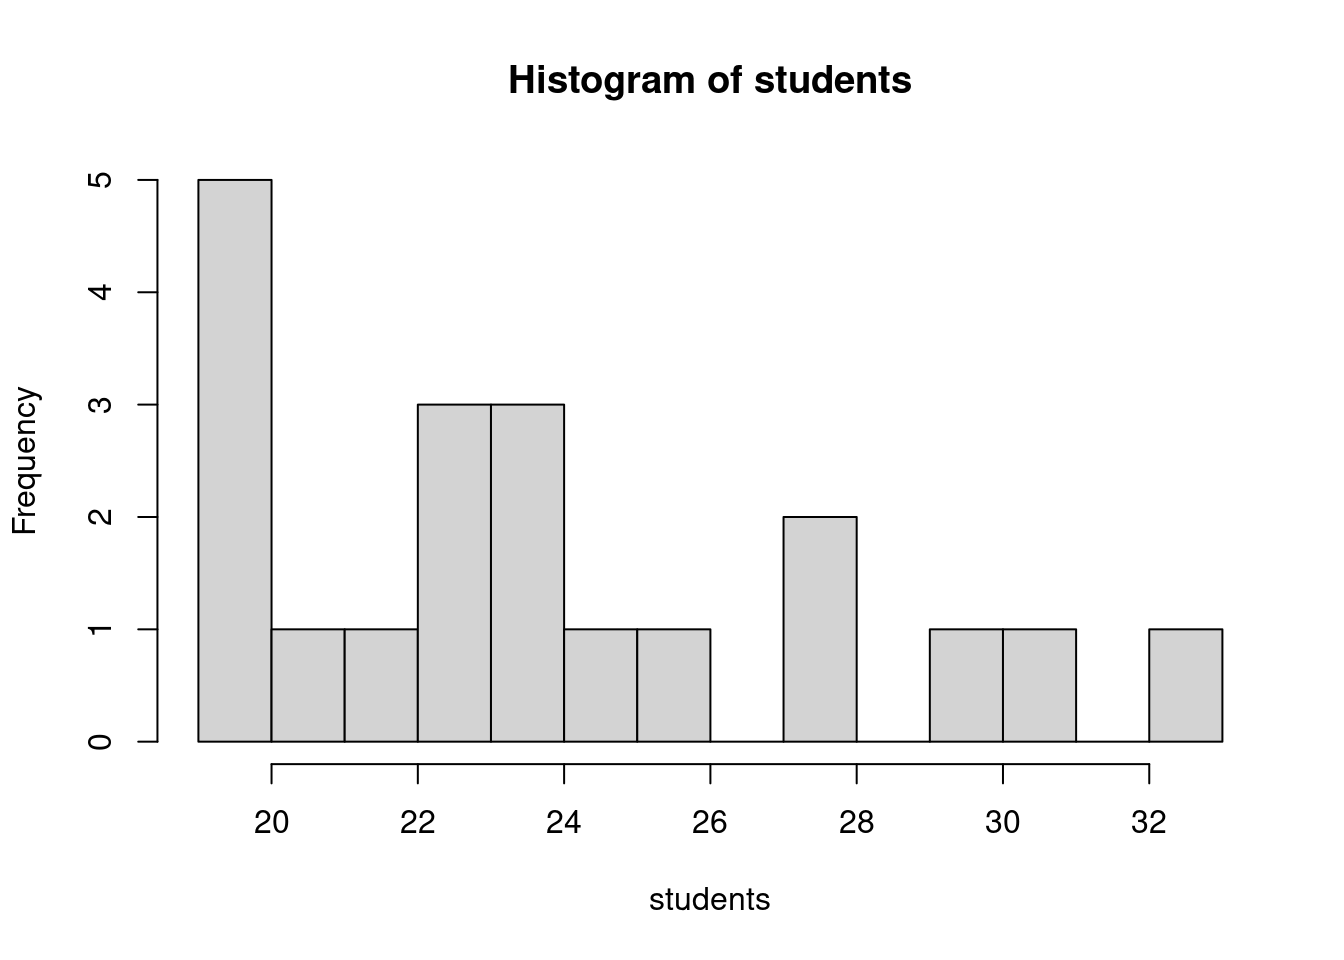
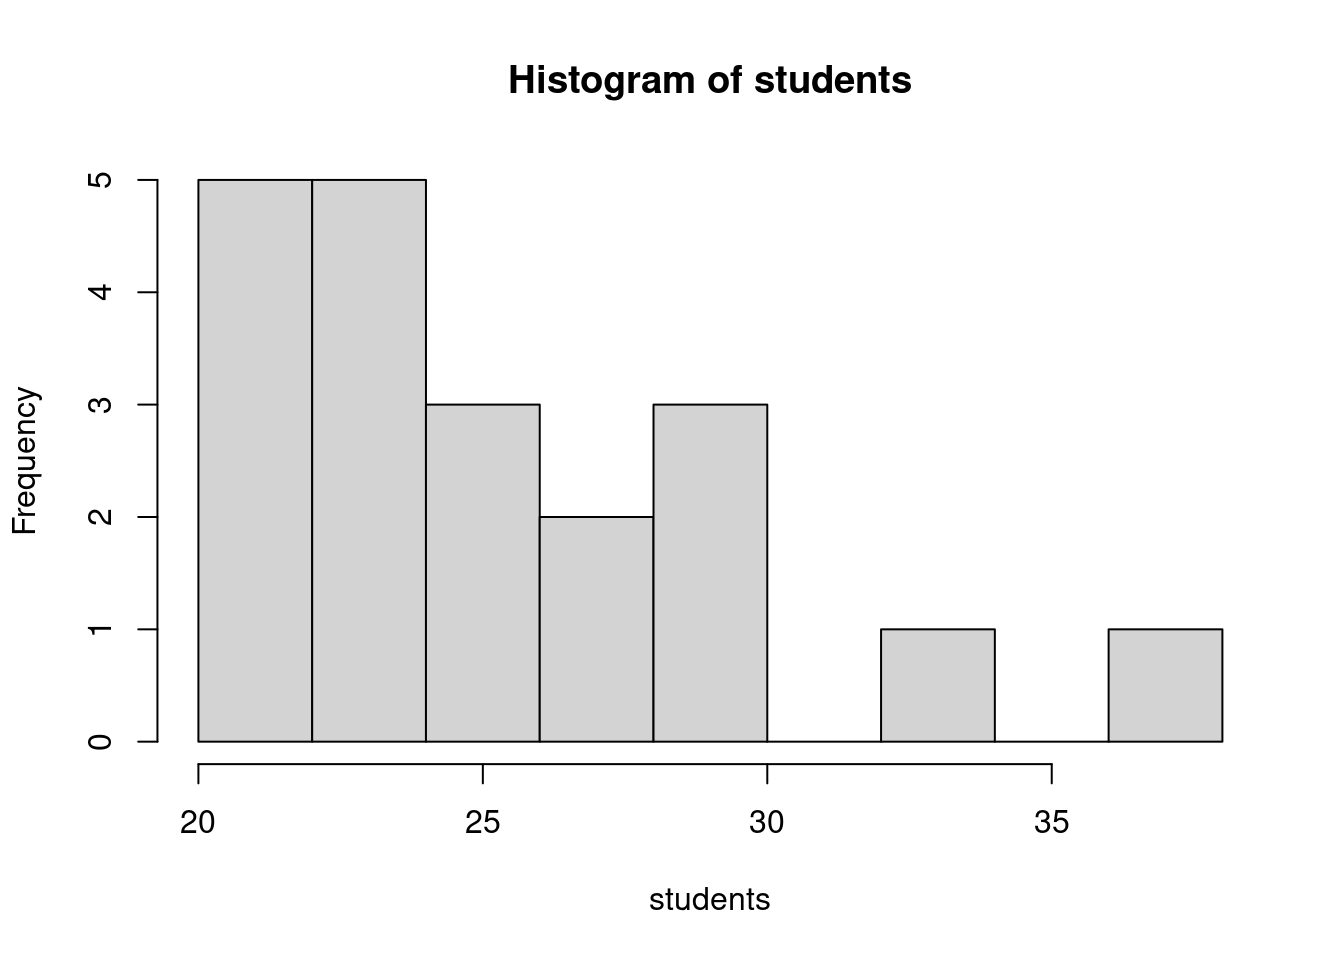
reordered exampls

diff --git a/_book/what-is-statistics.html b/_book/what-is-statistics.html
@@ -189,14 +189,14 @@ code span.wa { color: #60a0b0; font-weight: bold; font-style: italic; } /* Warni
 <li class="chapter" data-level="3.6.5" data-path="what-is-statistics.html"><a href="what-is-statistics.html#birthday-tickets"><i class="fa fa-check"></i><b>3.6.5</b> Birthday Tickets</a></li>
 <li class="chapter" data-level="3.6.6" data-path="what-is-statistics.html"><a href="what-is-statistics.html#accidents"><i class="fa fa-check"></i><b>3.6.6</b> Accidents</a></li>
 <li class="chapter" data-level="3.6.7" data-path="what-is-statistics.html"><a href="what-is-statistics.html#detecting-fraud"><i class="fa fa-check"></i><b>3.6.7</b> Detecting Fraud</a></li>
-<li class="chapter" data-level="3.6.8" data-path="what-is-statistics.html"><a href="what-is-statistics.html#monty-hall"><i class="fa fa-check"></i><b>3.6.8</b> Monty Hall</a></li>
-<li class="chapter" data-level="3.6.9" data-path="what-is-statistics.html"><a href="what-is-statistics.html#monty-hilbert-hall"><i class="fa fa-check"></i><b>3.6.9</b> Monty-Hilbert Hall</a></li>
-<li class="chapter" data-level="3.6.10" data-path="what-is-statistics.html"><a href="what-is-statistics.html#radioactive-decay"><i class="fa fa-check"></i><b>3.6.10</b> Radioactive Decay</a></li>
-<li class="chapter" data-level="3.6.11" data-path="what-is-statistics.html"><a href="what-is-statistics.html#budgets"><i class="fa fa-check"></i><b>3.6.11</b> Budgets</a></li>
-<li class="chapter" data-level="3.6.12" data-path="what-is-statistics.html"><a href="what-is-statistics.html#cherry-blossoms"><i class="fa fa-check"></i><b>3.6.12</b> Cherry Blossoms</a></li>
-<li class="chapter" data-level="3.6.13" data-path="what-is-statistics.html"><a href="what-is-statistics.html#detecting-fraud-in-thc-labs"><i class="fa fa-check"></i><b>3.6.13</b> Detecting Fraud in THC Labs</a></li>
-<li class="chapter" data-level="3.6.14" data-path="what-is-statistics.html"><a href="what-is-statistics.html#how-many-locomotives"><i class="fa fa-check"></i><b>3.6.14</b> How Many Locomotives</a></li>
-<li class="chapter" data-level="3.6.15" data-path="what-is-statistics.html"><a href="what-is-statistics.html#combining-rare-events-with-common-events"><i class="fa fa-check"></i><b>3.6.15</b> Combining Rare Events with Common Events</a></li>
+<li class="chapter" data-level="3.6.8" data-path="what-is-statistics.html"><a href="what-is-statistics.html#combining-rare-events-with-common-events"><i class="fa fa-check"></i><b>3.6.8</b> Combining Rare Events with Common Events</a></li>
+<li class="chapter" data-level="3.6.9" data-path="what-is-statistics.html"><a href="what-is-statistics.html#monty-hall"><i class="fa fa-check"></i><b>3.6.9</b> Monty Hall</a></li>
+<li class="chapter" data-level="3.6.10" data-path="what-is-statistics.html"><a href="what-is-statistics.html#monty-hilbert-hall"><i class="fa fa-check"></i><b>3.6.10</b> Monty-Hilbert Hall</a></li>
+<li class="chapter" data-level="3.6.11" data-path="what-is-statistics.html"><a href="what-is-statistics.html#radioactive-decay"><i class="fa fa-check"></i><b>3.6.11</b> Radioactive Decay</a></li>
+<li class="chapter" data-level="3.6.12" data-path="what-is-statistics.html"><a href="what-is-statistics.html#budgets"><i class="fa fa-check"></i><b>3.6.12</b> Budgets</a></li>
+<li class="chapter" data-level="3.6.13" data-path="what-is-statistics.html"><a href="what-is-statistics.html#cherry-blossoms"><i class="fa fa-check"></i><b>3.6.13</b> Cherry Blossoms</a></li>
+<li class="chapter" data-level="3.6.14" data-path="what-is-statistics.html"><a href="what-is-statistics.html#detecting-fraud-in-thc-labs"><i class="fa fa-check"></i><b>3.6.14</b> Detecting Fraud in THC Labs</a></li>
+<li class="chapter" data-level="3.6.15" data-path="what-is-statistics.html"><a href="what-is-statistics.html#how-many-locomotives"><i class="fa fa-check"></i><b>3.6.15</b> How Many Locomotives</a></li>
 <li class="chapter" data-level="3.6.16" data-path="what-is-statistics.html"><a href="what-is-statistics.html#median-house-prices"><i class="fa fa-check"></i><b>3.6.16</b> Median House Prices</a></li>
 <li class="chapter" data-level="3.6.17" data-path="what-is-statistics.html"><a href="what-is-statistics.html#healthcare-costs"><i class="fa fa-check"></i><b>3.6.17</b> Healthcare Costs</a></li>
 <li class="chapter" data-level="3.6.18" data-path="what-is-statistics.html"><a href="what-is-statistics.html#what-questions-do-you-have"><i class="fa fa-check"></i><b>3.6.18</b> What Questions Do You Have?</a></li>
@@ -286,7 +286,7 @@ While I am collecting this data you can reflect on this funny musing. I grew up 
 <span id="cb3-5"><a href="what-is-statistics.html#cb3-5" aria-hidden="true" tabindex="-1"></a><span class="co"># students &lt;- {} </span></span>
 <span id="cb3-6"><a href="what-is-statistics.html#cb3-6" aria-hidden="true" tabindex="-1"></a></span>
 <span id="cb3-7"><a href="what-is-statistics.html#cb3-7" aria-hidden="true" tabindex="-1"></a>students</span></code></pre></div>
-<pre><code>##  [1] 19 33 26 22 24 30 24 19 28 19 23 23 20 31 23 25 24 28 19 21</code></pre>
+<pre><code>##  [1] 33 22 37 30 24 23 24 29 30 25 27 24 22 21 24 27 25 25 20 21</code></pre>
 <p><em>R Notes</em>: lists in R are enclosed in <em>curly braces</em> and each member of the list is separated by a <em>semi-colon</em> or a space; note I think leaving the space is bad practice and recommend not using that feature. In this case our list is a collection of integers. Lists can more generally be numbers or strings or even lists of lists.</p>
 <p>Comments in commands start with <em>hash symbols</em>.</p>
 <p>Another syntax note: R uses both = and &lt;- for assignment though they have slightly different meanings. They both work as you would expect, however &lt;- has some nice positives in the detailed differences and it is worth getting into the habit of using it.</p>
@@ -296,11 +296,11 @@ While I am collecting this data you can reflect on this funny musing. I grew up 
 <p>To get started we can use <em>summary</em> to get an overview of what our list of student enrollments look like. Review the meaning of each of these.</p>
 <div class="sourceCode" id="cb5"><pre class="sourceCode r"><code class="sourceCode r"><span id="cb5-1"><a href="what-is-statistics.html#cb5-1" aria-hidden="true" tabindex="-1"></a><span class="fu">summary</span>(students)</span></code></pre></div>
 <pre><code>##    Min. 1st Qu.  Median    Mean 3rd Qu.    Max. 
-##   19.00   20.75   23.50   24.05   26.50   33.00</code></pre>
+##   20.00   22.75   24.50   25.65   27.50   37.00</code></pre>
 <p>Mean and Median are <em>measures of center</em>, while the quartiles are <em>measures of spread</em>. One measure of spread missing is the variance or its square root standard deviation:</p>
 <div class="sourceCode" id="cb7"><pre class="sourceCode r"><code class="sourceCode r"><span id="cb7-1"><a href="what-is-statistics.html#cb7-1" aria-hidden="true" tabindex="-1"></a><span class="fu">var</span>(students); <span class="fu">sqrt</span>(<span class="fu">var</span>(students))</span></code></pre></div>
-<pre><code>## [1] 17.62895</code></pre>
-<pre><code>## [1] 4.198684</code></pre>
+<pre><code>## [1] 18.76579</code></pre>
+<pre><code>## [1] 4.33195</code></pre>
 <p>The variance is computed by taking the sum of the square differences between the data and the mean and then dividing that by number of items minus one; we will explain why this is what we divide by later in class:
 <span class="math display">\[ S = \frac{1}{n-1} \sum_{j=1}^n (y_j - \bar{y} )^2 \]</span> where <span class="math inline">\(\bar{y}\)</span> is the mean of the sample made up of the <span class="math inline">\(\{ y_1, y_2, \dots, y_n \}\)</span>.</p>
 <p>In the code blocks below I will add some comments about what we are doing:</p>
@@ -310,17 +310,17 @@ While I am collecting this data you can reflect on this funny musing. I grew up 
 <span id="cb10-4"><a href="what-is-statistics.html#cb10-4" aria-hidden="true" tabindex="-1"></a></span>
 <span id="cb10-5"><a href="what-is-statistics.html#cb10-5" aria-hidden="true" tabindex="-1"></a><span class="co"># R can then do the arithmetic and when we combine a list of numbers with a single number and square it, it knows what we mean.</span></span>
 <span id="cb10-6"><a href="what-is-statistics.html#cb10-6" aria-hidden="true" tabindex="-1"></a>(students <span class="sc">-</span> ybar)<span class="sc">^</span><span class="dv">2</span></span></code></pre></div>
-<pre><code>##  [1] 25.5025 80.1025  3.8025  4.2025  0.0025 35.4025  0.0025 25.5025 15.6025
-## [10] 25.5025  1.1025  1.1025 16.4025 48.3025  1.1025  0.9025  0.0025 15.6025
-## [19] 25.5025  9.3025</code></pre>
+<pre><code>##  [1]  54.0225  13.3225 128.8225  18.9225   2.7225   7.0225   2.7225  11.2225
+##  [9]  18.9225   0.4225   1.8225   2.7225  13.3225  21.6225   2.7225   1.8225
+## [17]   0.4225   0.4225  31.9225  21.6225</code></pre>
 <div class="sourceCode" id="cb12"><pre class="sourceCode r"><code class="sourceCode r"><span id="cb12-1"><a href="what-is-statistics.html#cb12-1" aria-hidden="true" tabindex="-1"></a><span class="co"># Then as we said, we sum over all of these and then divide by the number of them</span></span>
 <span id="cb12-2"><a href="what-is-statistics.html#cb12-2" aria-hidden="true" tabindex="-1"></a><span class="co"># minus 1</span></span>
 <span id="cb12-3"><a href="what-is-statistics.html#cb12-3" aria-hidden="true" tabindex="-1"></a></span>
 <span id="cb12-4"><a href="what-is-statistics.html#cb12-4" aria-hidden="true" tabindex="-1"></a><span class="fu">sum</span>( (students <span class="sc">-</span> ybar)<span class="sc">^</span><span class="dv">2</span> ) <span class="sc">/</span> ( <span class="fu">length</span>(students) <span class="sc">-</span> <span class="dv">1</span> )</span></code></pre></div>
-<pre><code>## [1] 17.62895</code></pre>
+<pre><code>## [1] 18.76579</code></pre>
 <p>Note why we compute variance in this way. We are trying to understand how far the data moves from the mean <span class="math inline">\(\bar{y}\)</span>. However we can’t just sum over the differences as that will just add up to zero:</p>
 <div class="sourceCode" id="cb14"><pre class="sourceCode r"><code class="sourceCode r"><span id="cb14-1"><a href="what-is-statistics.html#cb14-1" aria-hidden="true" tabindex="-1"></a><span class="fu">sum</span>(students <span class="sc">-</span> ybar )</span></code></pre></div>
-<pre><code>## [1] -1.421085e-14</code></pre>
+<pre><code>## [1] 2.842171e-14</code></pre>
 <p>We have choices though, we could sum over the absolute value and indeed that does give us a notion of spread. However the advantage of summing over the squares is that it brings in tools from Calculus that work with quadratic expressions but not with absolute value expressions. We then intend to take an average. For reasons we will justify later, it turns out the correct average to do is to divide by the size of our sample minus 1: <span class="math inline">\(n-1\)</span> is called the degrees of freedom (roughly computing <span class="math inline">\(\bar{y}\)</span> from the sample has used up one degree of freedom).</p>
 <p>Note the units on these two statistics: the variance is the average of the sum of the squares (by the number of degrees of freedom) so its units are the square of the units of our sample data (<em>students squared</em> in this case); and then the standard deviation is the square root of the variance and so has units of the original data (<em>students</em> in this case).</p>
 </div>
@@ -560,28 +560,34 @@ above the linear trend. To explore this, we can add more variables to a scatter 
 <h3><span class="header-section-number">3.6.7</span> Detecting Fraud</h3>
 <p>A common analysis used in forensic accounting, specifically in an attempt to detect if fraud is being attempting is to analyze the frequency with which each digit 0, 1, 2, …, 9 appears in the records. In an honest accounting of a companies finances what digits should be the most common?</p>
 </div>
-<div id="monty-hall" class="section level3" number="3.6.8">
-<h3><span class="header-section-number">3.6.8</span> Monty Hall</h3>
+<div id="combining-rare-events-with-common-events" class="section level3" number="3.6.8">
+<h3><span class="header-section-number">3.6.8</span> Combining Rare Events with Common Events</h3>
+<p>At the scene of a crime the two perpetrators left two samples of blood. One was blood type O, occurring in 60% of the population; while the other was blood type AB occurring in only 3% of the population. A suspect, Oliver has his blood tested and it returns as blood type O. Does this indicate evidence in favor of Oliver committing the crime?</p>
+<p>Consider this related problem:
+Your partner draws two cards from a standard 52 card deck and tells you that one is a red face card, and the other is a number card. How likely is it that the 3 of clubs was the number card drawn?</p>
+</div>
+<div id="monty-hall" class="section level3" number="3.6.9">
+<h3><span class="header-section-number">3.6.9</span> Monty Hall</h3>
 <p>You are on a game show and are presented with three doors, behind one door is a car and behind the other two there are goats. You are asked to choose a door. After you have chosen one the host, Monty Hall (ask your grandparents), opens a second door revealing a goat. He then asks you if you would like to change your selection. What should you do?</p>
 </div>
-<div id="monty-hilbert-hall" class="section level3" number="3.6.9">
-<h3><span class="header-section-number">3.6.9</span> Monty-Hilbert Hall</h3>
+<div id="monty-hilbert-hall" class="section level3" number="3.6.10">
+<h3><span class="header-section-number">3.6.10</span> Monty-Hilbert Hall</h3>
 <p>You are confronted with a countably infinite number of doors, i.e. they are numbered 1, 2, …, and told that behind one of them is a car and behind the others goats. You are asked to choose a door. After you have chosen one the host, Hilbert, opens all of the other doors but one revealing goats (A LOT of goats). He then asks you if you would like to change your selection. What should you do?</p>
 </div>
-<div id="radioactive-decay" class="section level3" number="3.6.10">
-<h3><span class="header-section-number">3.6.10</span> Radioactive Decay</h3>
+<div id="radioactive-decay" class="section level3" number="3.6.11">
+<h3><span class="header-section-number">3.6.11</span> Radioactive Decay</h3>
 <p>The number of atoms of a radioactive isotope in a sample that are likely to decay in a small interval of time is proportional to the number of atoms in the sample. Cesium 137, a by product of some nuclear fission reactors, has a half life of 30 years. It decays, emitting a beta particle, into Barium 137 which has a half-life of just 2.6 minutes and decays emitting a gamma particle - this decay path leading quickly to the release of a gamma particle is what makes Cesium 137 such a dangerous contaminant. What proportion of a sample of Cesium 137 released in an accident do we expect to still be present after 50 years?</p>
 </div>
-<div id="budgets" class="section level3" number="3.6.11">
-<h3><span class="header-section-number">3.6.11</span> Budgets</h3>
+<div id="budgets" class="section level3" number="3.6.12">
+<h3><span class="header-section-number">3.6.12</span> Budgets</h3>
 <p>The School of Mathematical Sciences spends on average $5,800 a year on copies. How much should we budget for copies for next year?</p>
 </div>
-<div id="cherry-blossoms" class="section level3" number="3.6.12">
-<h3><span class="header-section-number">3.6.12</span> Cherry Blossoms</h3>
+<div id="cherry-blossoms" class="section level3" number="3.6.13">
+<h3><span class="header-section-number">3.6.13</span> Cherry Blossoms</h3>
 <p>The Cherry Trees in Washington DC are a famous gift from the mayor Tokyo in 1914 aimed at improving the cooperation between the US and Japan. Recently they have become possibly evidence of a change in climate around DC. The last few peak blooms (the date at which 70% of the trees in DC are at full bloom) have been on: March 28, March 20, April 1, April 5, March 25, March 25, April 10, April 10, April 9, March 20, March 29, and March 31. Over the entire historical record peak bloom has on average occured on April 3. From the recent blooms, do we have evidence that the average date of peak bloom has changed?</p>
 </div>
-<div id="detecting-fraud-in-thc-labs" class="section level3" number="3.6.13">
-<h3><span class="header-section-number">3.6.13</span> Detecting Fraud in THC Labs</h3>
+<div id="detecting-fraud-in-thc-labs" class="section level3" number="3.6.14">
+<h3><span class="header-section-number">3.6.14</span> Detecting Fraud in THC Labs</h3>
 <p>This problem comes from the article: <a href="https://jcannabisresearch.biomedcentral.com/articles/10.1186/s42238-021-00064-2" class="uri">https://jcannabisresearch.biomedcentral.com/articles/10.1186/s42238-021-00064-2</a> about cannabis testing labs in Washington state. There have been some high profile cases of labs in CA, NV, and CO as well as Canada being fine or suspended for falsifying data or for retailers or producers shopping for labs.</p>
 <p>Something suspicious is happening at some labs in Washington state that test for THC concentrations in consumer sold marajuana. The distribution of concentrations appear to be normal except that there is a discontinuity in the distribution at 20% with a higher density of results just above 20% than just below 20%. Here is the histogram that was found:</p>
 <p><img src="Labs.png" alt="Histogram of THC Concentrations in suspended Washington Labs" width="300"/></p>
@@ -589,24 +595,18 @@ above the linear trend. To explore this, we can add more variables to a scatter 
 <p><img src="goodLab.png" alt="Histogram of THC Concentrations in unsuspended Washington Labs" width="300"/></p>
 <p>Suppose that you have a set of results from a lab for concentrations of some samples. How would you go about deciding if they have manipulated the results?</p>
 <p>(If you would rather not think of this as a THC lab question - Volkswagon was caught doing something very similar with the effeciencies measurments of their TDI vehicles a few years ago).</p>
-<div id="detecting-fraud-1" class="section level4" number="3.6.13.1">
-<h4><span class="header-section-number">3.6.13.1</span> Detecting Fraud</h4>
+<div id="detecting-fraud-1" class="section level4" number="3.6.14.1">
+<h4><span class="header-section-number">3.6.14.1</span> Detecting Fraud</h4>
 <p>I would consider building an entire course around this question alone.</p>
 </div>
 </div>
-<div id="how-many-locomotives" class="section level3" number="3.6.14">
-<h3><span class="header-section-number">3.6.14</span> How Many Locomotives</h3>
+<div id="how-many-locomotives" class="section level3" number="3.6.15">
+<h3><span class="header-section-number">3.6.15</span> How Many Locomotives</h3>
 <p>A train company numbers its locomotives sequentially 1, 2, 3, …. N You happen to be standing at a station and you observe locomotive number 65 go by. How many locomotives does the company own?</p>
-<div id="the-german-tank-problem" class="section level4" number="3.6.14.1">
-<h4><span class="header-section-number">3.6.14.1</span> The German Tank Problem</h4>
+<div id="the-german-tank-problem" class="section level4" number="3.6.15.1">
+<h4><span class="header-section-number">3.6.15.1</span> The German Tank Problem</h4>
 <p>This is a baby example of the German Tank Problem from World War 2: The allies were collecting maintenance records and recovering damaged tanks which included serial numbers on engines and transmissions. From this data they attempted to estimate how many tanks were being produced in Germany.</p>
 </div>
-</div>
-<div id="combining-rare-events-with-common-events" class="section level3" number="3.6.15">
-<h3><span class="header-section-number">3.6.15</span> Combining Rare Events with Common Events</h3>
-<p>At the scene of a crime the two perpetrators left two samples of blood. One was blood type O, occurring in 60% of the population; while the other was blood type AB occurring in only 3% of the population. A suspect, Oliver has his blood tested and it returns as blood type O. Does this indicate evidence in favor of Oliver committing the crime?</p>
-<p>Consider this related problem:
-Your partner draws two cards from a standard 52 card deck and tells you that one is a red face card, and the other is a number card. How likely is it that the 3 of clubs was the number card drawn?</p>
 </div>
 <div id="median-house-prices" class="section level3" number="3.6.16">
 <h3><span class="header-section-number">3.6.16</span> Median House Prices</h3>
